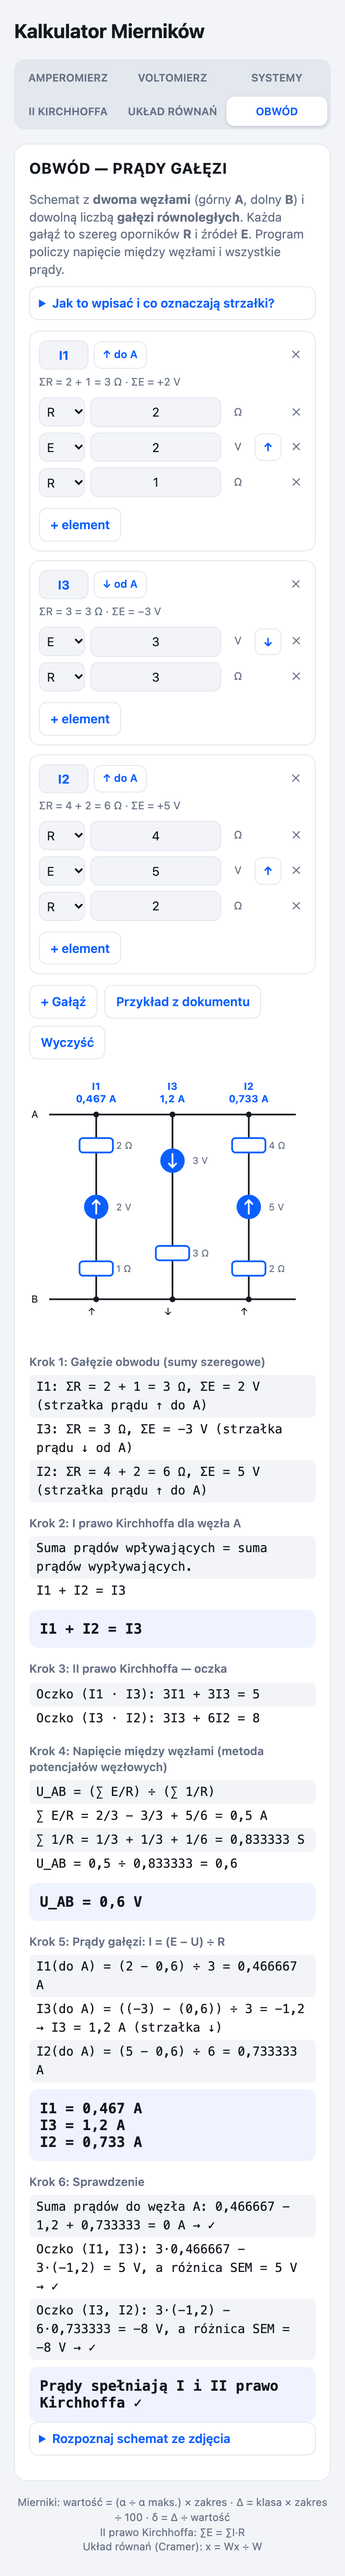
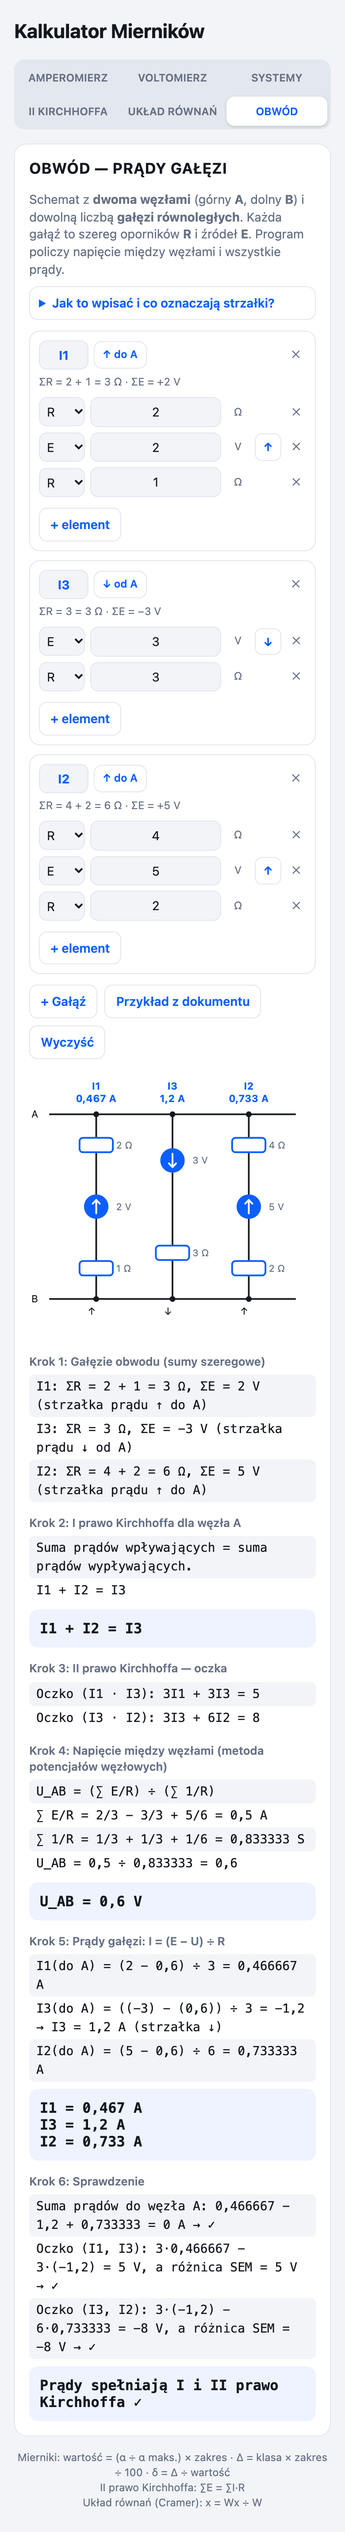
OBWÓD: usunięcie rozpoznawania schematu ze zdjęcia
Zakładka OBWÓD zostaje w wersji czysto obliczeniowej: wpisujesz
gałęzie i elementy, program rysuje schemat i liczy prądy. Znika
sekcja z kluczem API, wyborem dostawcy i wgrywaniem zdjęcia wraz
z całym kodem (konfiguracja, wysyłka obrazu, obsługa błędów).

Dzięki temu zakładka działa w całości lokalnie i offline, bez
żadnych zewnętrznych usług ani danych wychodzących z przeglądarki.

- README bez sekcji o rozpoznawaniu zdjęcia, zaktualizowany zrzut,
- cache service workera podbity do mierniki-v10.

diff --git a/index.html b/index.html
@@ -100,8 +100,6 @@ details.kn li{margin-bottom:4px}
 .elr .u{font-size:12px;color:var(--mut);text-align:center}
 .elr .sd{margin:0;padding:5px 0;border:1px solid var(--line);border-radius:8px;font-size:13px;font-weight:700;color:var(--acc)}
 .elr .x{margin:0;padding:3px 4px;font-size:12px;color:var(--mut)}
-.foto img{max-width:100%;border-radius:10px;border:1px solid var(--line);margin-top:8px;display:block}
-input[type=file]{font-size:13px;padding:8px;width:100%;background:var(--bg);border:1px solid var(--line);border-radius:9px;color:var(--mut)}
 footer{color:var(--mut);font-size:12px;text-align:center}
 </style>
 </head>
@@ -582,15 +580,6 @@ METERS.forEach(m=>{
  if(!Array.isArray(st.br)||!st.br.length)st.br=[BR("",null,[EL("R","")]),BR("",null,[EL("R","")])];
  st.br=st.br.filter(b=>b&&typeof b==="object").map(b=>BR(b.name,b.dir,Array.isArray(b.el)?b.el:null));
  st.br.forEach((b,i)=>{if(!b.name)b.name="I"+(i+1)});
- st.cfg=st.cfg&&typeof st.cfg==="object"?st.cfg:{};
- const PROVIDERS={
-  gemini:{base:"https://generativelanguage.googleapis.com/v1beta/openai",model:"gemini-2.5-flash"},
-  openai:{base:"https://api.openai.com/v1",model:"gpt-4o-mini"},
-  openrouter:{base:"https://openrouter.ai/api/v1",model:"google/gemini-2.5-flash"},
-  inny:{base:"",model:""}
- };
- st.cfg.prov=PROVIDERS[st.cfg.prov]?st.cfg.prov:"gemini";
- ["base","model","key"].forEach(k=>{st.cfg[k]=st.cfg[k]==null?"":String(st.cfg[k])});
  const EXAMPLE=[
   BR("I1","up",[EL("R",2),EL("E",2,"up"),EL("R",1)]),
   BR("I3","down",[EL("E",3,"down"),EL("R",3)]),
@@ -610,22 +599,9 @@ METERS.forEach(m=>{
  </div>
  <div id="osch"></div>
  <div id="oout"></div>
- <details class="kn" id="ofoto"><summary>Rozpoznaj schemat ze zdjęcia</summary>
-  <p>Zrób zdjęcie schematu i wgraj je — model z obsługą obrazów odczyta gałęzie i wartości, a program od razu policzy prądy. <b>Zawsze sprawdź odczyt</b>, bo rozpoznawanie rysunku może się pomylić; wpis możesz poprawić ręcznie powyżej.</p>
-  <p>Potrzebny jest <b>Twój klucz API</b> do modelu z obsługą obrazów. Klucz zostaje w pamięci tej przeglądarki i jest wysyłany wyłącznie do wybranego dostawcy — nigdzie indziej.</p>
-  <div class="row">
-   <div><label>Dostawca</label><select id="oprov">${Object.keys(PROVIDERS).map(k=>`<option value="${k}"${k===st.cfg.prov?" selected":""}>${k==="inny"?"inny (OpenAI-compatible)":k}</option>`).join("")}</select></div>
-   <div><label>Model</label><input id="omod" value="${escA(st.cfg.model)}" placeholder="${escA(PROVIDERS[st.cfg.prov].model)}"></div>
-   <div style="grid-column:1/-1"><label>Adres API (base URL)</label><input id="obase" value="${escA(st.cfg.base)}" placeholder="${escA(PROVIDERS[st.cfg.prov].base)}"></div>
-   <div style="grid-column:1/-1"><label>Klucz API</label><input id="okey" type="password" autocomplete="off" value="${escA(st.cfg.key)}" placeholder="np. AIza... / sk-..."></div>
-  </div>
-  <div class="foto"><label>Zdjęcie schematu</label><input type="file" id="ofile" accept="image/*"></div>
-  <div id="ostatus"></div>
-  <div class="kbtns"><button type="button" id="orun">Rozpoznaj i oblicz</button></div>
- </details>`;
+`;
  app.appendChild(sec);cards.o=sec;
- const list=sec.querySelector("#olist"),sch=sec.querySelector("#osch"),out=sec.querySelector("#oout"),stat=sec.querySelector("#ostatus");
- const prov=sec.querySelector("#oprov"),mod=sec.querySelector("#omod"),base=sec.querySelector("#obase"),key=sec.querySelector("#okey"),file=sec.querySelector("#ofile");
+ const list=sec.querySelector("#olist"),sch=sec.querySelector("#osch"),out=sec.querySelector("#oout");
  const L=a=>a.map(x=>`<div class="ln">${x}</div>`).join("");
  const STP=(t,a,r)=>`<div class="step"><h3>${t}</h3>${L(a)}${r?`<div class="res">${r}</div>`:""}</div>`;
  const sgn=v=>v<0?"−":"+";
@@ -807,92 +783,6 @@ METERS.forEach(m=>{
   h+=STP(K()+"Sprawdzenie",chk,(okNode&&okLoops)?"Prądy spełniają I i II prawo Kirchhoffa ✓":"Uwaga: któreś sprawdzenie się nie zgadza — sprawdź dane.");
   out.innerHTML=h;
  }
- // --- zdjęcie schematu ---
- let photo=null;
- function cfgRead(){
-  st.cfg.prov=prov.value;st.cfg.model=mod.value.trim();st.cfg.base=base.value.trim();st.cfg.key=key.value;save();
- }
- [prov,mod,base,key].forEach(el=>el.addEventListener("input",()=>{
-  if(el===prov){const p=PROVIDERS[prov.value];mod.placeholder=p.model;base.placeholder=p.base}
-  cfgRead();
- }));
- const PROMPT=["The image is a photo of a DC circuit diagram. It should contain two nodes (an upper one and a lower one) and several parallel branches connecting them.",
-"Return ONLY a JSON object, no markdown, no commentary, in exactly this shape:",
-'{"branches":[{"name":"I1","dir":"up","elements":[{"type":"R","value":2},{"type":"E","value":2,"dir":"up"},{"type":"R","value":1}]}]}',
-"Rules:",
-"- one entry in branches per branch of the circuit, ordered from left to right;",
-'- "dir" of a branch is the direction of the drawn current arrow: "up" = towards the upper node, "down" = towards the lower node;',
-"- elements are listed in series order, from the upper node to the lower node;",
-'- "type":"R" is a resistor (value in ohms), "type":"E" is a voltage source (value in volts);',
-'- for a source, "dir":"up" when its arrow points towards the upper node, otherwise "down";',
-"- values must be plain numbers with a dot as decimal separator, without units;",
-"- if a value is unreadable use 0;",
-'- if the drawing is not a two-node circuit with parallel branches, return {"error":"<short reason in Polish>"}.'].join("\n");
- function shrink(f,maxDim,cb){
-  const fr=new FileReader();
-  fr.onload=()=>{const im=new Image();
-   im.onload=()=>{const s=Math.min(1,maxDim/Math.max(im.width,im.height));
-    const w=Math.max(1,Math.round(im.width*s)),hh=Math.max(1,Math.round(im.height*s));
-    const cv=document.createElement("canvas");cv.width=w;cv.height=hh;
-    cv.getContext("2d").drawImage(im,0,0,w,hh);
-    cb(cv.toDataURL("image/jpeg",0.85),w,hh)};
-   im.onerror=()=>cb(null);im.src=fr.result};
-  fr.onerror=()=>cb(null);fr.readAsDataURL(f);
- }
- file.onchange=()=>{
-  const f=file.files&&file.files[0];
-  if(!f){photo=null;return}
-  shrink(f,1600,(url,w,h)=>{
-   if(!url){stat.innerHTML=`<div class="err">Nie udało się wczytać pliku graficznego.</div>`;return}
-   photo=url;
-   stat.innerHTML=`<div class="c">Wczytano zdjęcie ${w}×${h} px. Kliknij „Rozpoznaj i oblicz”.</div><img src="${url}" alt="Podgląd schematu">`;
-  });
- };
- sec.querySelector("#orun").onclick=async()=>{
-  cfgRead();
-  const b=base.value.trim()||PROVIDERS[prov.value].base;
-  const m=mod.value.trim()||PROVIDERS[prov.value].model;
-  if(!photo){stat.innerHTML=`<div class="err">Najpierw wybierz zdjęcie schematu.</div>`;return}
-  if(!b||!m){stat.innerHTML=`<div class="err">Podaj adres API i nazwę modelu.</div>`;return}
-  if(!key.value.trim()){stat.innerHTML=`<div class="err">Brak klucza API. Wpisz go powyżej — zostanie tylko w tej przeglądarce. Bez klucza możesz wpisać schemat ręcznie i tak policzy prądy.</div>`;return}
-  stat.innerHTML=`<div class="c">Pytam model ${escA(m)}…</div>`;
-  let r;
-  try{
-   r=await fetch(b.replace(/\/+$/,"")+"/chat/completions",{
-    method:"POST",
-    headers:{"Content-Type":"application/json","Authorization":"Bearer "+key.value.trim()},
-    body:JSON.stringify({model:m,temperature:0,messages:[{role:"user",content:[
-     {type:"text",text:PROMPT},
-     {type:"image_url",image_url:{url:photo}}
-    ]}]})
-   });
-  }catch(e){stat.innerHTML=`<div class="err">Nie udało się połączyć z API: ${escA(e.message)}. Sprawdź adres i połączenie z internetem.</div>`;return}
-  if(!r.ok){
-   let t="";try{t=await r.text()}catch(e){}
-   stat.innerHTML=`<div class="err">API zwróciło błąd ${r.status}. ${escA(t.slice(0,300))}</div>`;return;
-  }
-  let data;
-  try{data=await r.json()}catch(e){stat.innerHTML=`<div class="err">Odpowiedź API nie jest poprawnym JSON-em.</div>`;return}
-  const txt=(data&&data.choices&&data.choices[0]&&data.choices[0].message&&data.choices[0].message.content)||"";
-  const mm=String(txt).match(/\{[\s\S]*\}/);
-  if(!mm){stat.innerHTML=`<div class="err">Model nie zwrócił JSON-a. Odpowiedź: ${escA(String(txt).slice(0,300))}</div>`;return}
-  let obj;
-  try{obj=JSON.parse(mm[0])}catch(e){stat.innerHTML=`<div class="err">Nie udało się odczytać JSON-a z odpowiedzi modelu.</div>`;return}
-  if(obj.error){stat.innerHTML=`<div class="err">Model nie rozpoznał schematu: ${escA(String(obj.error))}</div>`;return}
-  if(!Array.isArray(obj.branches)||!obj.branches.length){stat.innerHTML=`<div class="err">W odpowiedzi nie ma listy gałęzi.</div>`;return}
-  st.br=obj.branches.slice(0,6).map((b,i)=>BR(
-   typeof b.name==="string"&&b.name.trim()?b.name.trim():"I"+(i+1),
-   b.dir==="down"?"down":"up",
-   (Array.isArray(b.elements)?b.elements:[]).map(e=>({
-    t:e&&e.type==="E"?"E":"R",
-    v:(e&&e.value!=null&&isFinite(Number(e.value)))?String(Number(e.value)).replace(".",","):"",
-    d:e&&e.dir==="down"?"down":"up"
-   }))
-  ));
-  st.br.forEach(b=>{if(!b.el.length)b.el=[EL("R","")]});
-  build();
-  stat.innerHTML=`<div class="c">Odczytano ${st.br.length} gałęzi — <b>sprawdź wartości na schemacie powyżej</b> i popraw, jeśli model się pomylił.</div><img src="${photo}" alt="Rozpoznany schemat">`;
- };
  build();
 })();
 (function(){

diff --git a/sw.js b/sw.js
@@ -1,4 +1,4 @@
-const CACHE="mierniki-v9";
+const CACHE="mierniki-v10";
 const FILES=["./","index.html","manifest.webmanifest","icon-180.png","icon-192.png","icon-512.png"];
 self.addEventListener("install",e=>{e.waitUntil(caches.open(CACHE).then(c=>c.addAll(FILES)));self.skipWaiting()});
 self.addEventListener("activate",e=>{e.waitUntil(caches.keys().then(k=>Promise.all(k.filter(x=>x!==CACHE).map(x=>caches.delete(x)))).then(()=>self.clients.claim()))});

diff --git a/README.md b/README.md
@@ -142,20 +142,6 @@ U_AB = 0,6 V
 I1 = 0,467 A    I2 = 0,733 A    I3 = 1,2 A
 ```
 
-#### Rozpoznawanie schematu ze zdjęcia
-
-Możesz też **wgrać zdjęcie schematu** — model z obsługą obrazów odczyta gałęzie i wartości,
-a program od razu policzy prądy i narysuje schemat. Wymagania i zasady:
-
-* potrzebny jest **własny klucz API** do modelu z obsługą obrazów; w aplikacji wybierasz
-  dostawcę (Google Gemini, OpenAI, OpenRouter albo dowolny serwer zgodny z OpenAI),
-  model i adres API — ustawienia zapisują się w `localStorage`,
-* **klucz nigdy nie opuszcza Twojej przeglądarki** poza zapytaniem do wybranego dostawcy —
-  aplikacja nie ma żadnego backendu,
-* rozpoznanie to **propozycja**: zawsze sprawdź odczytane wartości na schemacie i popraw je
-  ręcznie, jeśli model się pomylił,
-* bez klucza zakładka działa normalnie — schemat wpisujesz ręcznie.
-
 ![Obwód — schemat i prądy](screenshot-obwod.png)
 
 ### Jak to połączyć w zadaniu z praw Kirchhoffa
@@ -210,7 +196,7 @@ python3 -m http.server 8000
 * **Polski format liczb** — przecinek dziesiętny na wejściu i wyjściu.
 * **Tryb ciemny** — automatycznie wg ustawień systemowych (`prefers-color-scheme`).
 * **Responsywność** — układ mobilny; zakładki układają się w siatce 3 kolumn, a schemat obwodu rysowany jest jako skalowalny SVG.
-* **Twoje dane zostają u Ciebie** — obliczenia i rysowanie schematu dzieją się lokalnie; jedyne połączenie z siecią to opcjonalne rozpoznawanie zdjęcia na wyraźne kliknięcie i tylko do wybranego przez Ciebie dostawcy.
+* **Wszystko dzieje się lokalnie** — obliczenia i rysowanie schematu wykonują się w Twojej przeglądarce; aplikacja nie ma backendu i nie wysyła nigdzie żadnych danych.
 
 ### Hosting (GitHub Pages)
 
